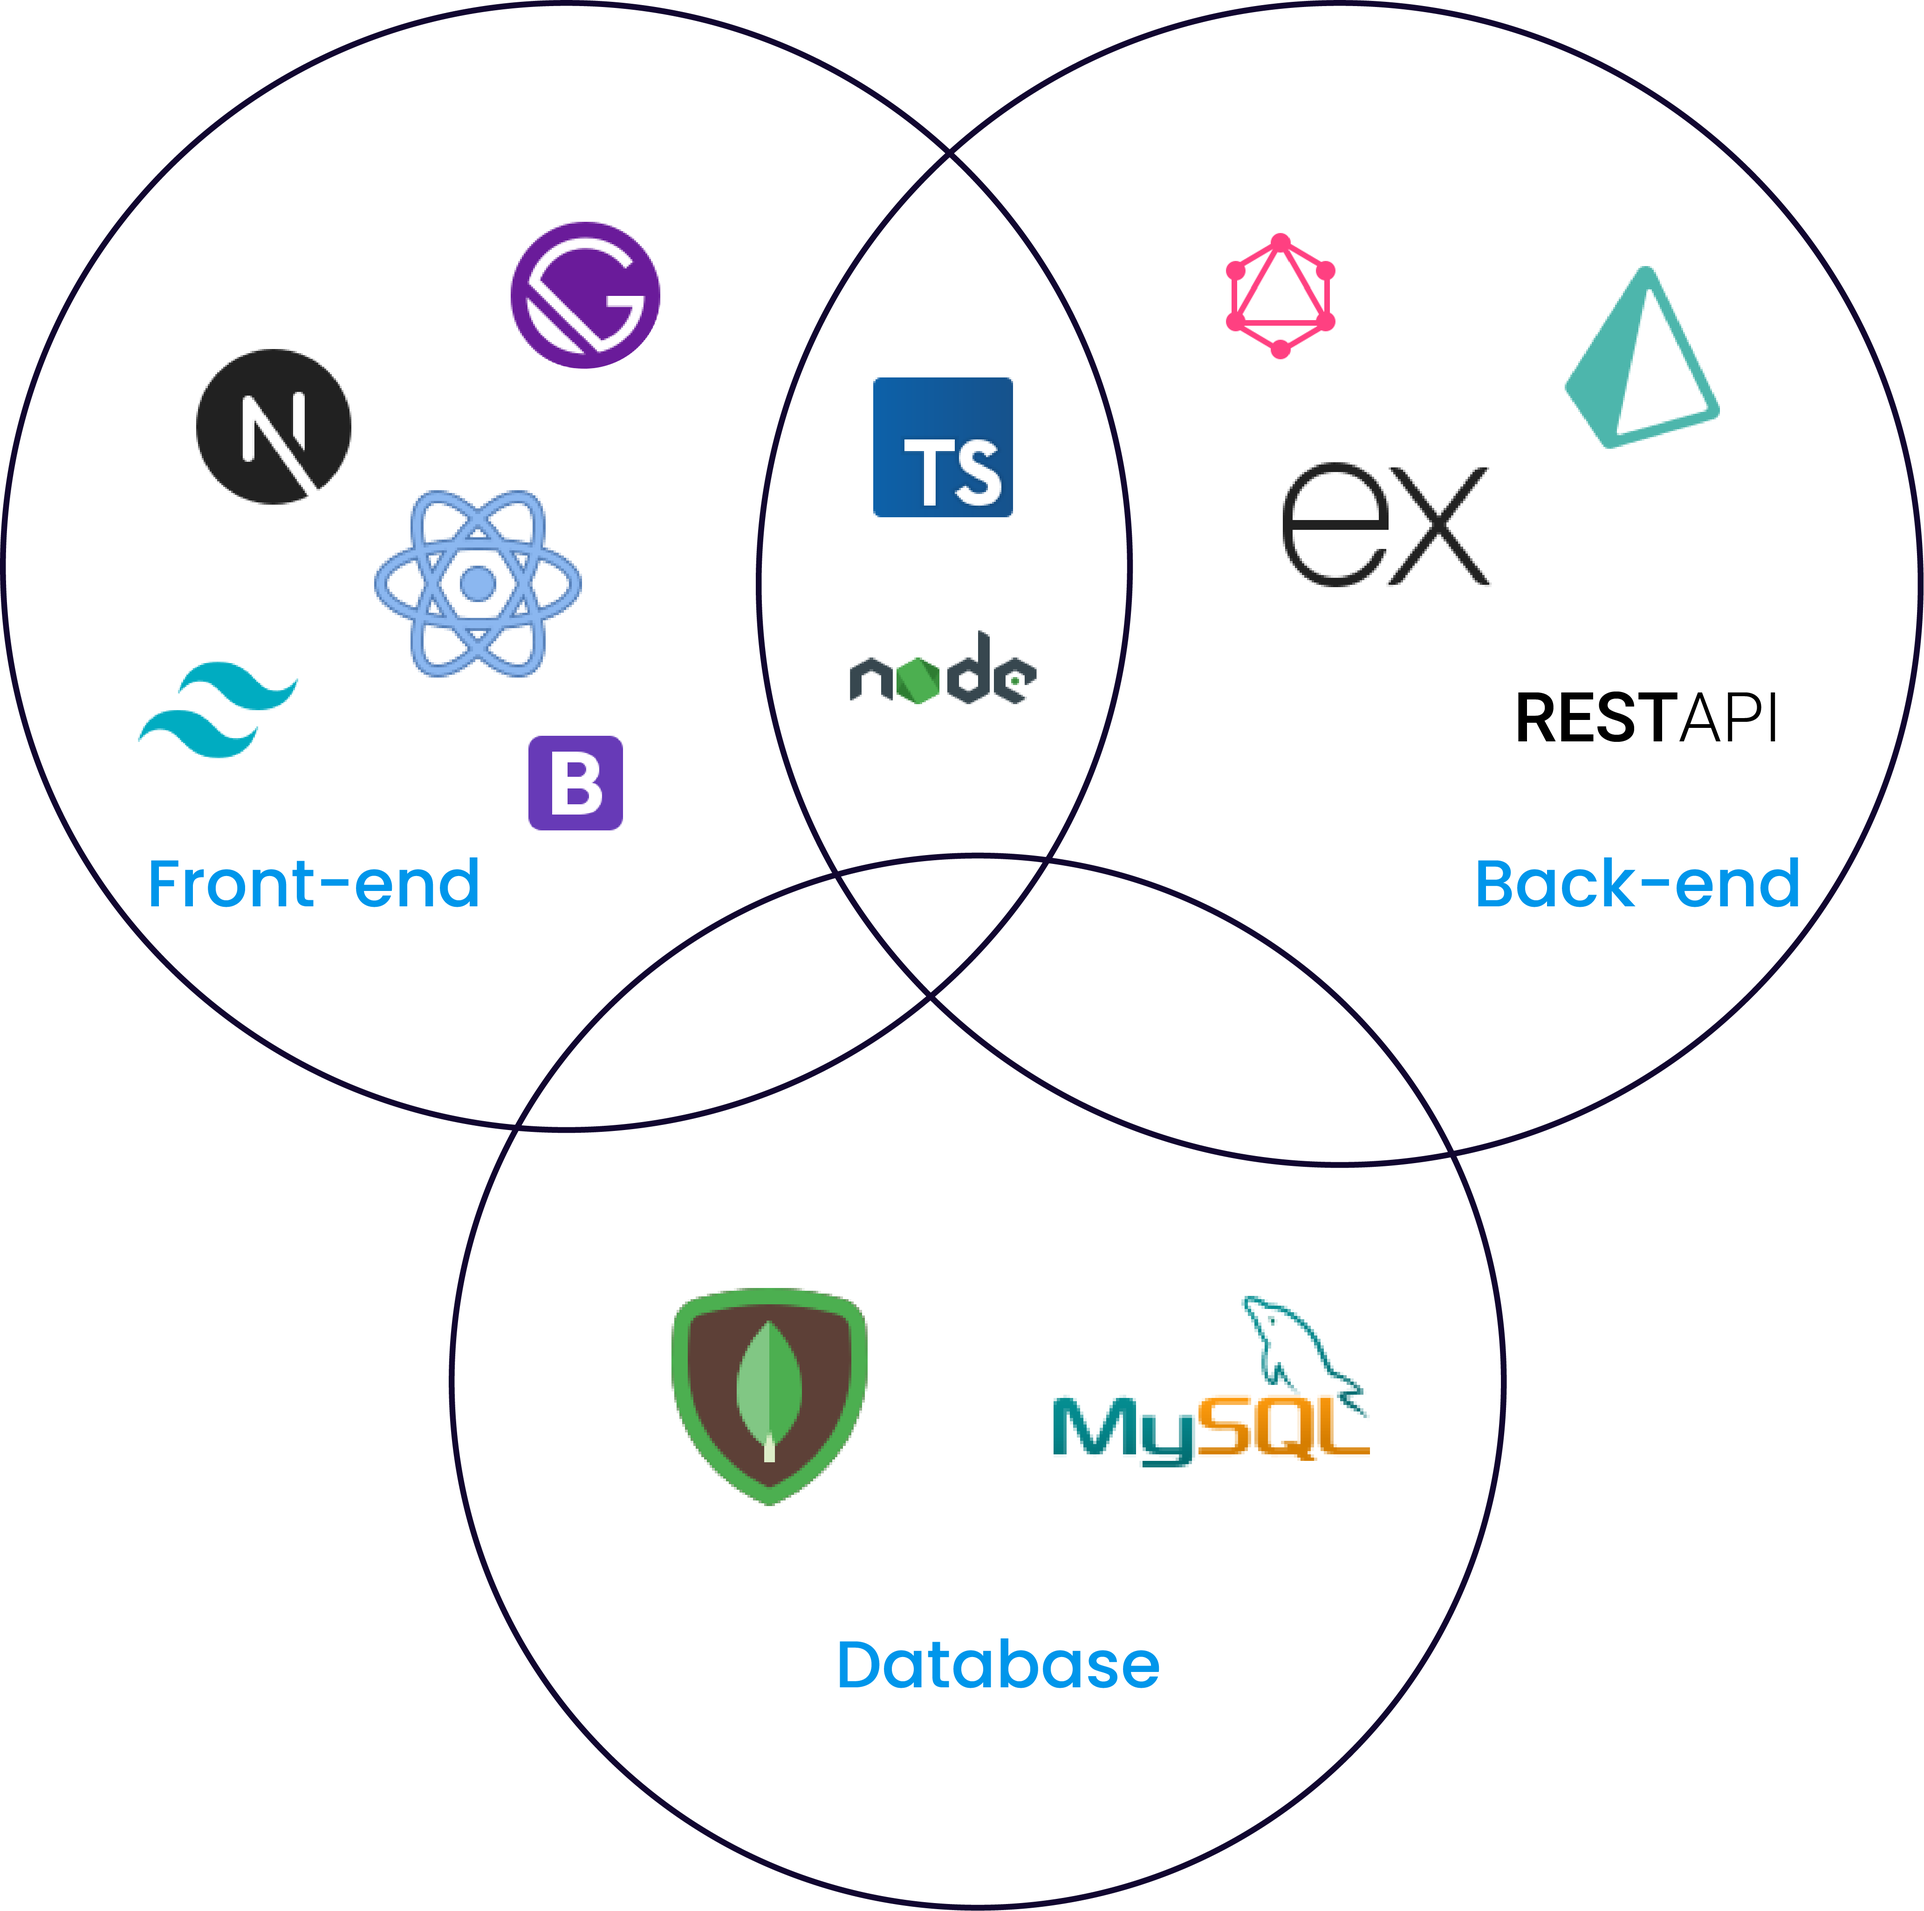
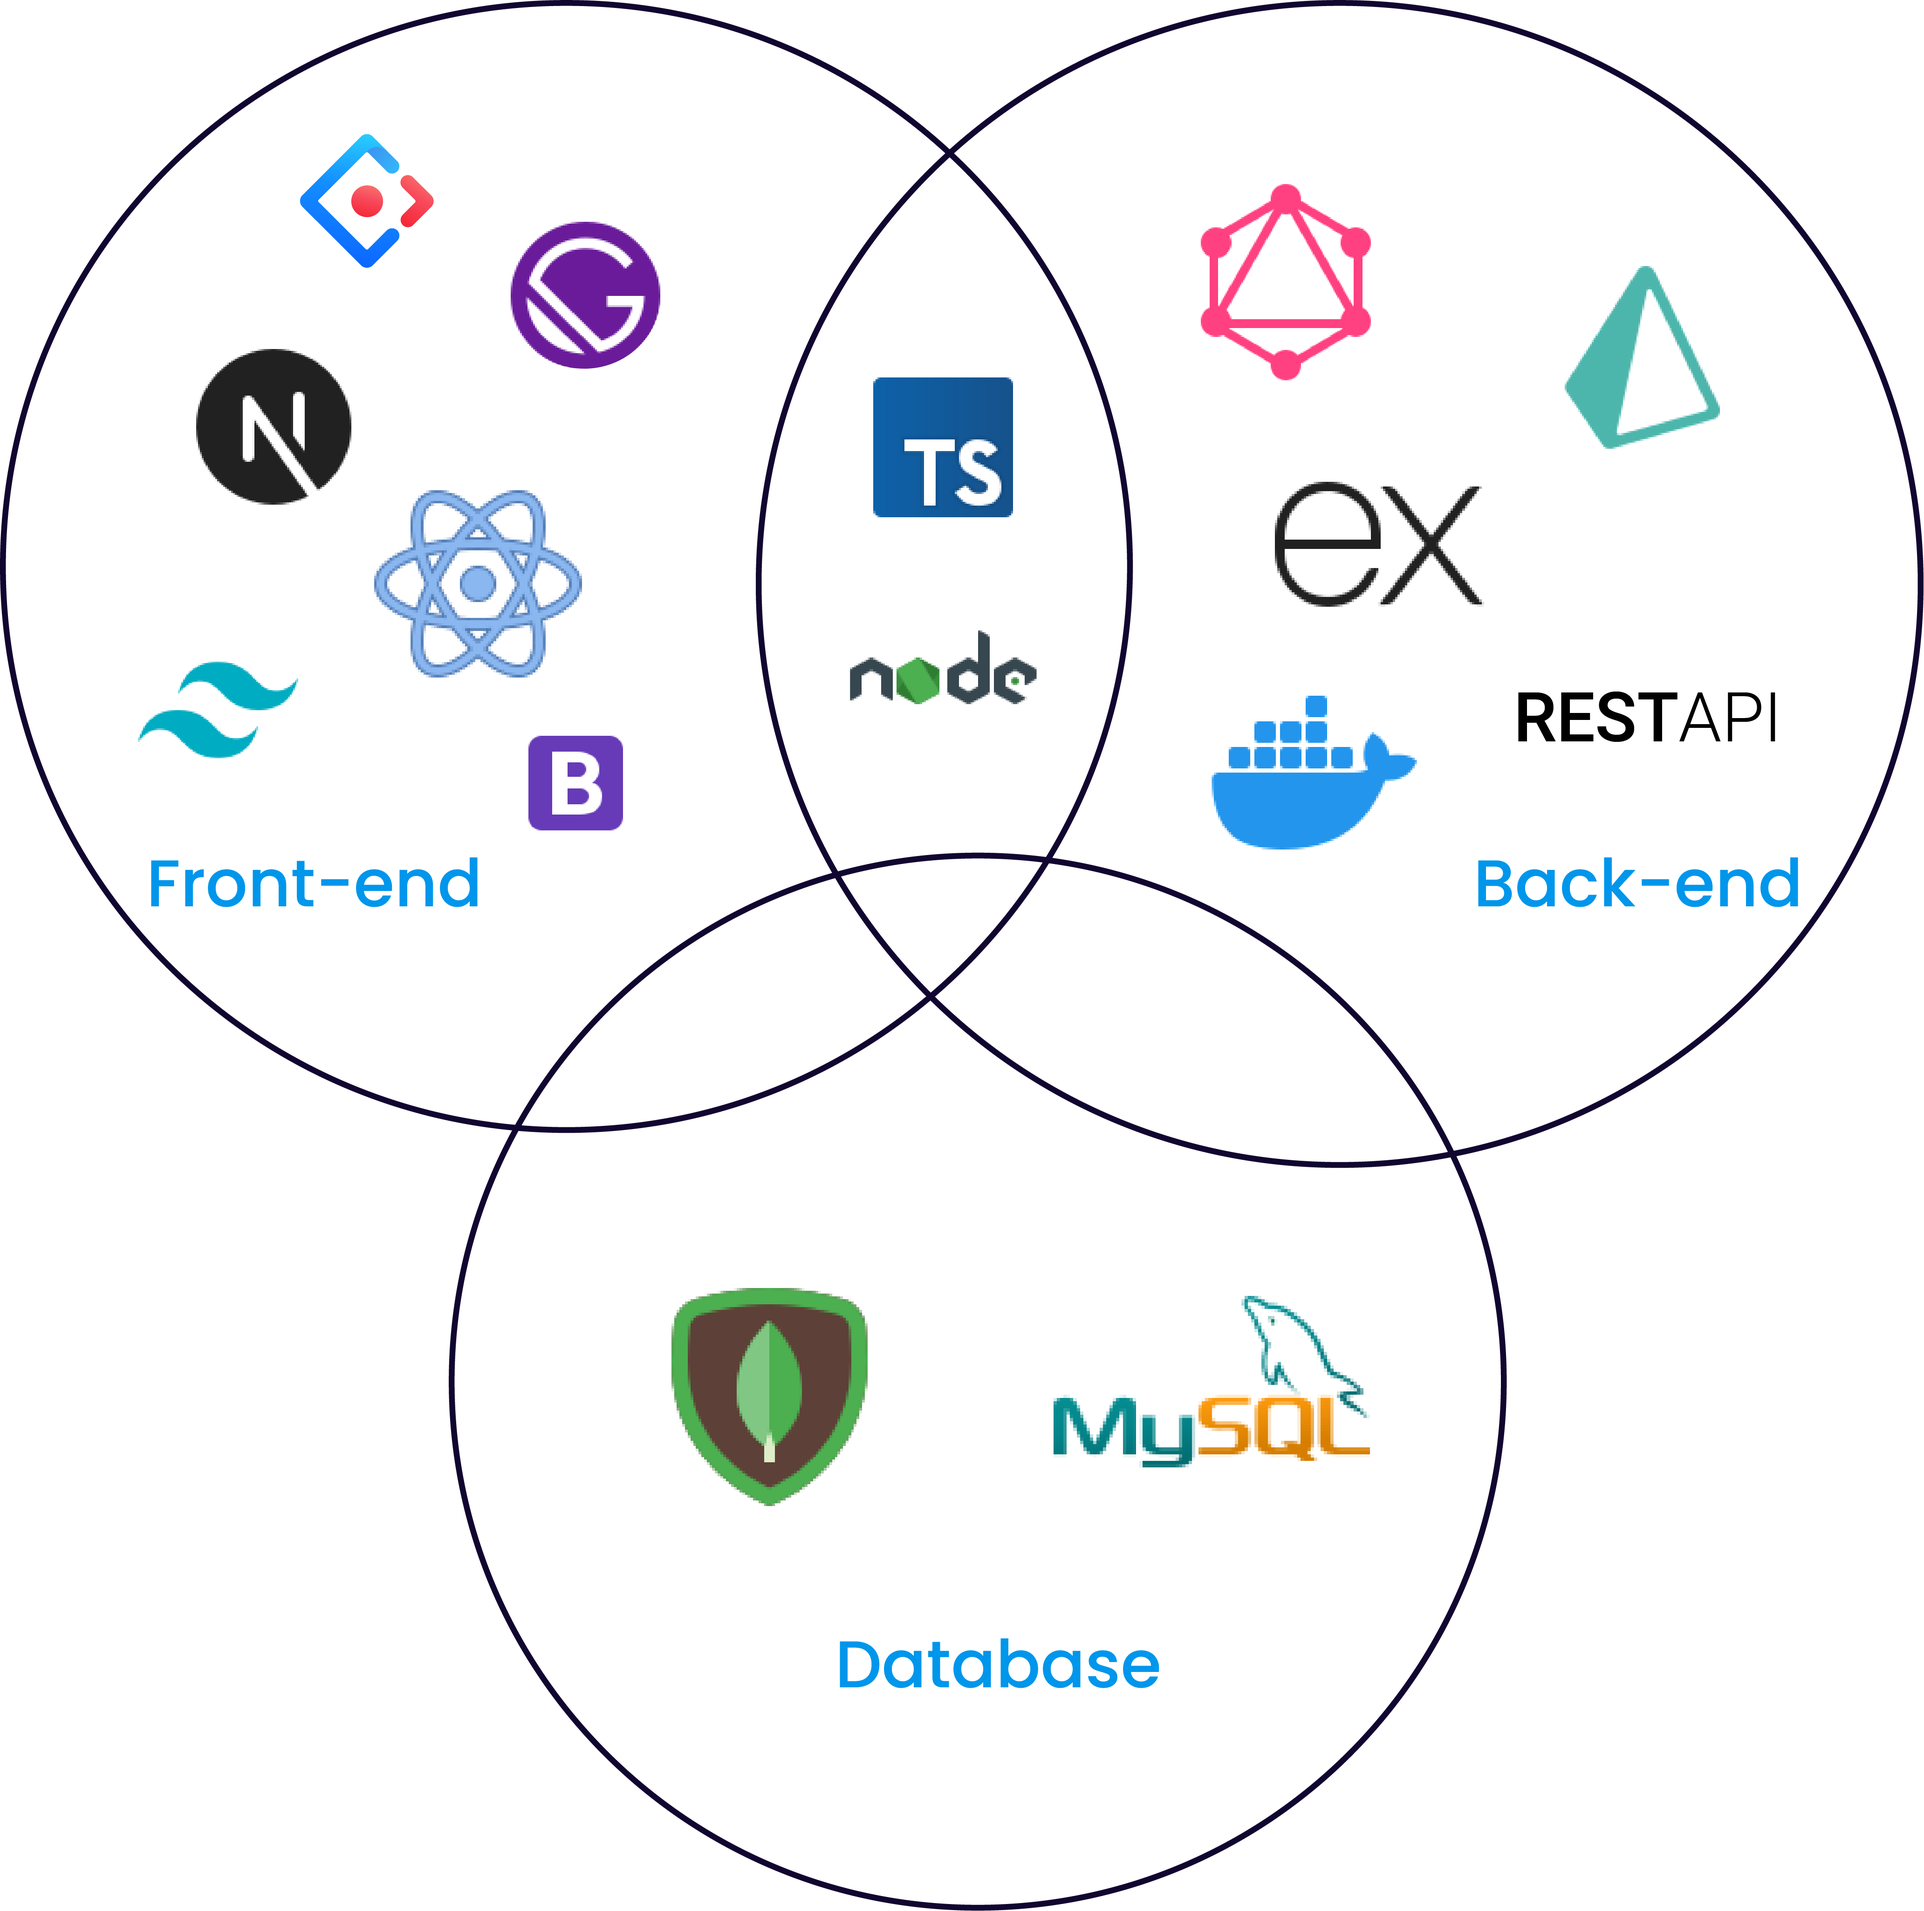
tech updated

diff --git a/src/pages/about.tsx b/src/pages/about.tsx
@@ -66,6 +66,11 @@ const About: FC<PageProps> = ({ data }) => {
                 link="https://jira.atlassian.com/"
               />
               <IconTool
+                icon={brands("trello")}
+                title="trello"
+                link="https://trello.com/"
+              />
+              <IconTool
                 icon={brands("git")}
                 title="git"
                 link="https://git-scm.com/"
@@ -74,16 +79,6 @@ const About: FC<PageProps> = ({ data }) => {
                 icon={brands("github")}
                 title="github"
                 link="https://github.com/"
-              />
-              <IconTool
-                icon={brands("stack-overflow")}
-                title="stackoverflow"
-                link="https://stackoverflow.com/"
-              />
-              <IconTool
-                icon={brands("docker")}
-                title="docker"
-                link="https://www.docker.com/"
               />
             </div>
             <br />
